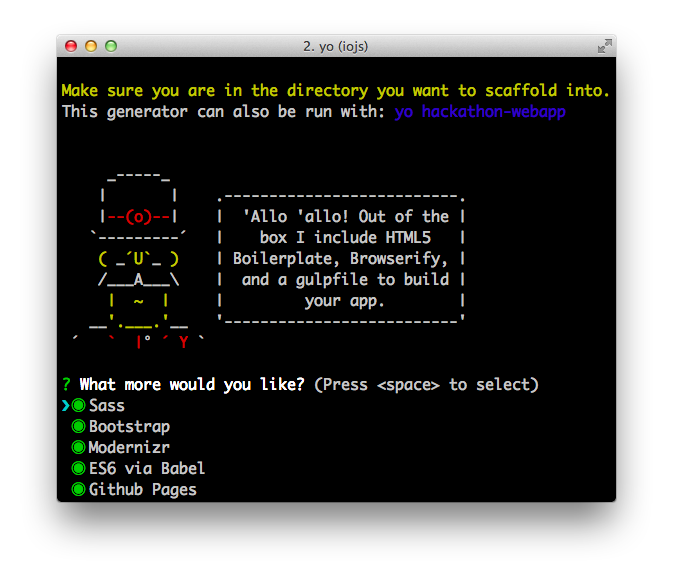
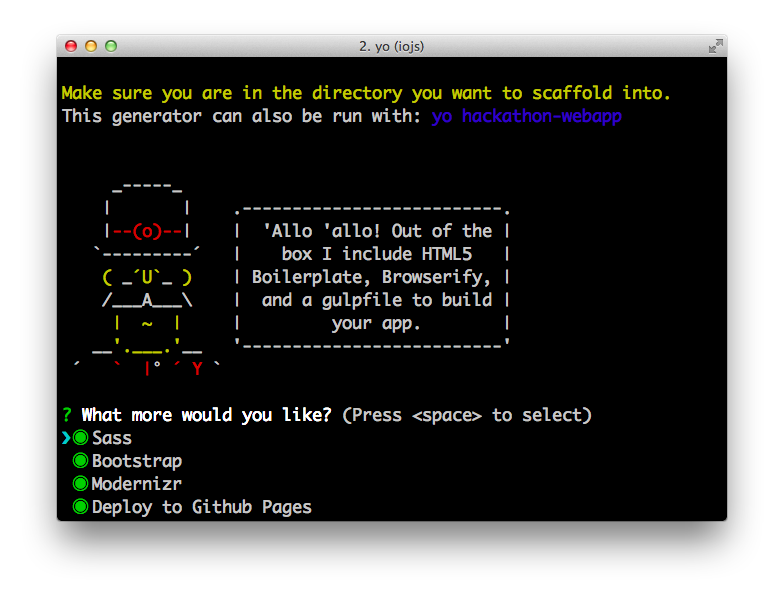
updating screenshot

Changed region(s): [[0.0624, 0.062, 0.9361, 0.8985], [0.1248, 0.3098, 0.6865, 0.6196], [0.156, 0.2788, 0.2184, 0.3098]]

diff --git a/app/index.js b/app/index.js
@@ -51,7 +51,7 @@ module.exports = generators.Base.extend({
         value: 'includeModernizr',
         checked: true
       }, {
-        name: 'Github Pages',
+        name: 'Deploy to Github Pages',
         value: 'includeGHPages',
         checked: true
       }]
